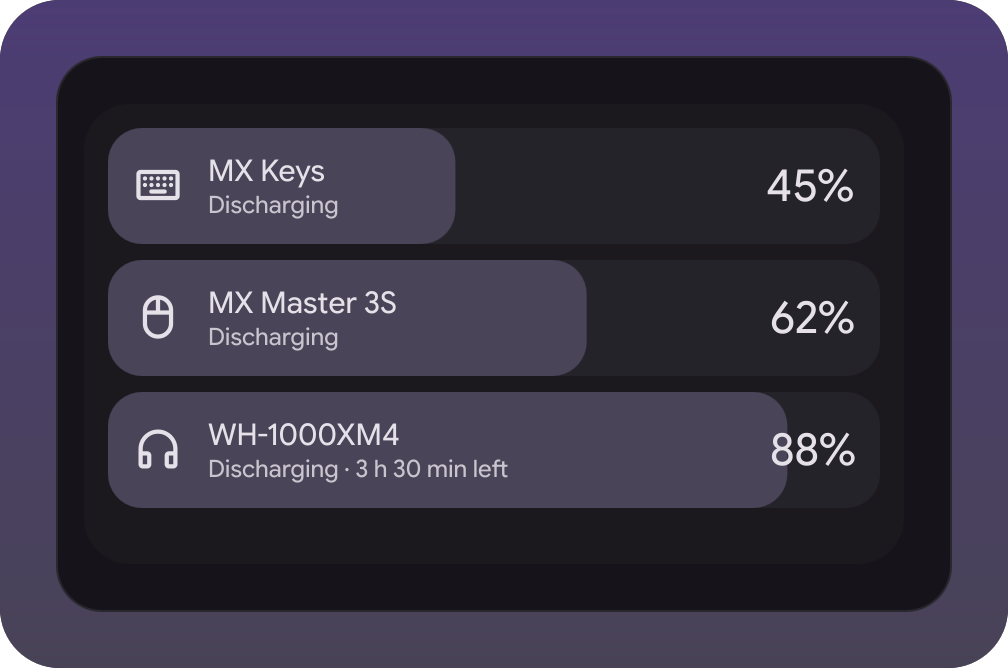
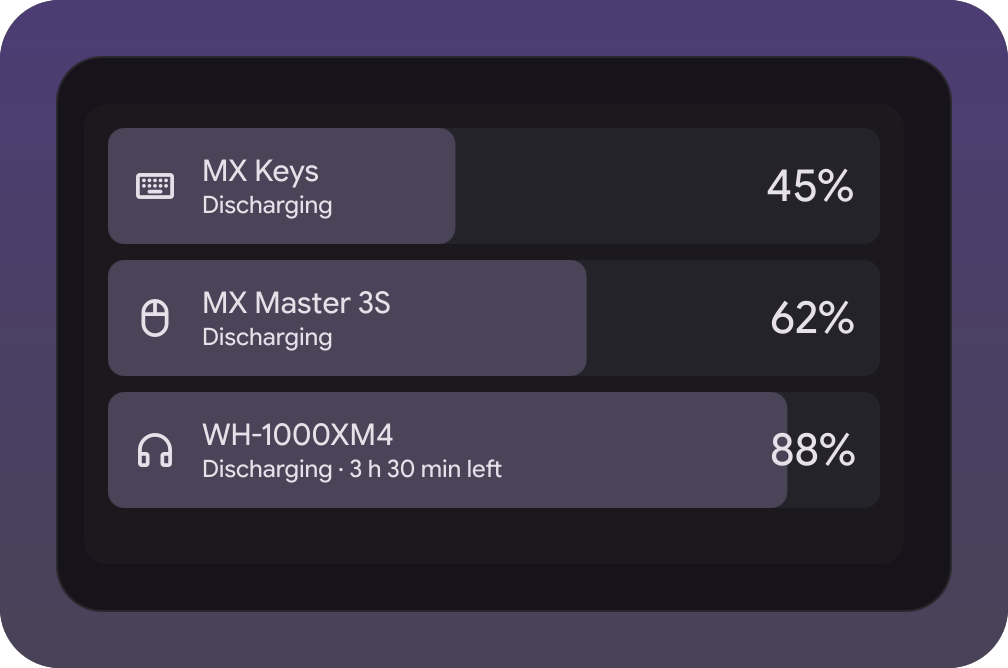
Tab: text paired with its card, sizes and radii from the scale
Card text and icons take colOnLayer3, the literal 36/30/32 sizes come from the pixelSize scale, panel and card corners step down from the group. The empty state says how to get a device in; the demo gains single and empty scenes.

diff --git a/PeripheralBatteryTab.qml b/PeripheralBatteryTab.qml
@@ -19,11 +19,13 @@ Item {
     readonly property bool single: root.devices.length === 1
     readonly property int cardSpacing: 8
     readonly property int cardPadding: root.single ? 20 : 12
+    readonly property int numberSize: root.single ? Appearance.font.pixelSize.hugeass : Appearance.font.pixelSize.huge
+    readonly property int minFill: root.cardPadding * 2 + Appearance.font.pixelSize.hugeass
 
     PagePlaceholder {
         shown: root.devices.length === 0
         icon: "mouse"
-        description: Translation.tr("No devices with a battery")
+        description: Translation.tr("No devices with a battery\nPair a bluetooth mouse, keyboard or headset")
         shape: MaterialShape.Shape.Ghostish
         descriptionHorizontalAlignment: Text.AlignHCenter
     }
@@ -37,7 +39,7 @@ Item {
             rightMargin: 10
             bottomMargin: 10
         }
-        radius: Appearance.rounding.large
+        radius: Appearance.rounding.small
         color: Appearance.colors.colLayer2
 
         StyledFlickable {
@@ -68,7 +70,7 @@ Item {
                         Layout.fillWidth: true
                         Layout.fillHeight: root.single
                         implicitHeight: root.cardPadding * 2 + cardRow.implicitHeight
-                        radius: Appearance.rounding.normal
+                        radius: Appearance.rounding.verysmall
                         color: Appearance.colors.colLayer3
 
                         // Charge as the card's own fill, like Android's battery widget
@@ -78,7 +80,7 @@ Item {
                                 top: parent.top
                                 bottom: parent.bottom
                             }
-                            width: Math.max(parent.radius * 2, parent.width * card.modelData.percentage)
+                            width: Math.max(root.minFill, parent.width * card.modelData.percentage)
                             radius: parent.radius
                             color: card.low ? Appearance.colors.colErrorContainer : Appearance.colors.colSecondaryContainer
 
@@ -101,8 +103,8 @@ Item {
                             MaterialSymbol {
                                 Layout.alignment: Qt.AlignVCenter
                                 text: PeripheralBattery.iconFor(card.modelData.type)
-                                iconSize: root.single ? 36 : 26
-                                color: Appearance.colors.colOnLayer2
+                                iconSize: Appearance.font.pixelSize.hugeass
+                                color: Appearance.colors.colOnLayer3
                             }
 
                             ColumnLayout {
@@ -116,7 +118,7 @@ Item {
                                     wrapMode: root.single ? Text.Wrap : Text.NoWrap
                                     maximumLineCount: root.single ? 2 : 1
                                     font.pixelSize: root.single ? Appearance.font.pixelSize.normal : Appearance.font.pixelSize.small
-                                    color: Appearance.colors.colOnLayer2
+                                    color: Appearance.colors.colOnLayer3
                                     text: PeripheralBattery.nameFor(card.modelData)
                                 }
 
@@ -126,7 +128,7 @@ Item {
                                     visible: detailText.text.length > 0
                                     elide: Text.ElideRight
                                     font.pixelSize: root.single ? Appearance.font.pixelSize.smallie : Appearance.font.pixelSize.smaller
-                                    color: Appearance.colors.colOnLayer1
+                                    color: Appearance.colors.colOnLayer3
                                     text: PeripheralBattery.detailFor(card.modelData)
                                 }
                             }
@@ -136,14 +138,14 @@ Item {
                                 visible: card.charging
                                 fill: 1
                                 text: "bolt"
-                                iconSize: root.single ? 30 : Appearance.font.pixelSize.hugeass
-                                color: Appearance.colors.colOnLayer2
+                                iconSize: root.numberSize
+                                color: Appearance.colors.colOnLayer3
                             }
 
                             StyledText {
                                 Layout.alignment: Qt.AlignVCenter
-                                font.pixelSize: root.single ? 32 : Appearance.font.pixelSize.huge
-                                color: Appearance.colors.colOnLayer2
+                                font.pixelSize: root.numberSize
+                                color: Appearance.colors.colOnLayer3
                                 text: `${Math.round(card.modelData.percentage * 100)}%`
                             }
                         }

diff --git a/demo/DemoDevices.qml b/demo/DemoDevices.qml
@@ -1,9 +1,10 @@
 //@ probe peripheralBattery -g 420x520
 /**
  * The devices tab and the bar indicator drawn from made-up peripherals: the views
- * take their list as a property, so no hardware and nothing stubbed. `-p scenario=edge`
- * is the pile that has looked wrong - empty and full, charging under the low
- * threshold, a name too long for its card, a device UPower knows nothing about.
+ * take their list as a property, so no hardware and nothing stubbed. `-p scenario=empty`
+ * and `-p scenario=single` are the two ends. `-p scenario=edge` is the pile that has
+ * looked wrong - empty and full, charging under the low threshold, a name too long
+ * for its card, a device UPower knows nothing about.
  */
 import ".." // The widget's own types and its PeripheralBattery singleton, via its qmldir
 import Quickshell.Services.UPower
@@ -30,6 +31,12 @@ Item {
 
     // Emptiest first, the order the service hands over
     readonly property var sets: ({
+        "empty": [],
+        "single": [
+            root.dev(UPowerDeviceType.Mouse, "MX Master 3S", 0.62, UPowerDeviceState.Discharging, {
+                "timeToEmpty": 9000
+            })
+        ],
         "plain": [
             root.dev(UPowerDeviceType.Keyboard, "MX Keys", 0.45, UPowerDeviceState.Discharging),
             root.dev(UPowerDeviceType.Mouse, "MX Master 3S", 0.62, UPowerDeviceState.Discharging),
@@ -74,7 +81,7 @@ Item {
             {
                 "name": "a lone device takes the whole panel",
                 "got": [tab.single, lone.single],
-                "want": [false, true]
+                "want": [root.devices.length === 1, root.devices.length > 0]
             },
             {
                 "name": "empty counts as low, charging never does",
@@ -98,8 +105,8 @@ Item {
             },
             {
                 "name": "showAll off keeps the emptiest one alone",
-                "got": [bar.shownDevices.length, narrow.shownDevices.length, narrow.shownDevices[0].model],
-                "want": [root.devices.length, 1, root.devices[0].model]
+                "got": [bar.shownDevices.length, narrow.shownDevices.length, narrow.shownDevices[0]?.model],
+                "want": [root.devices.length, Math.min(1, root.devices.length), root.devices[0]?.model]
             }
         ];
     }
